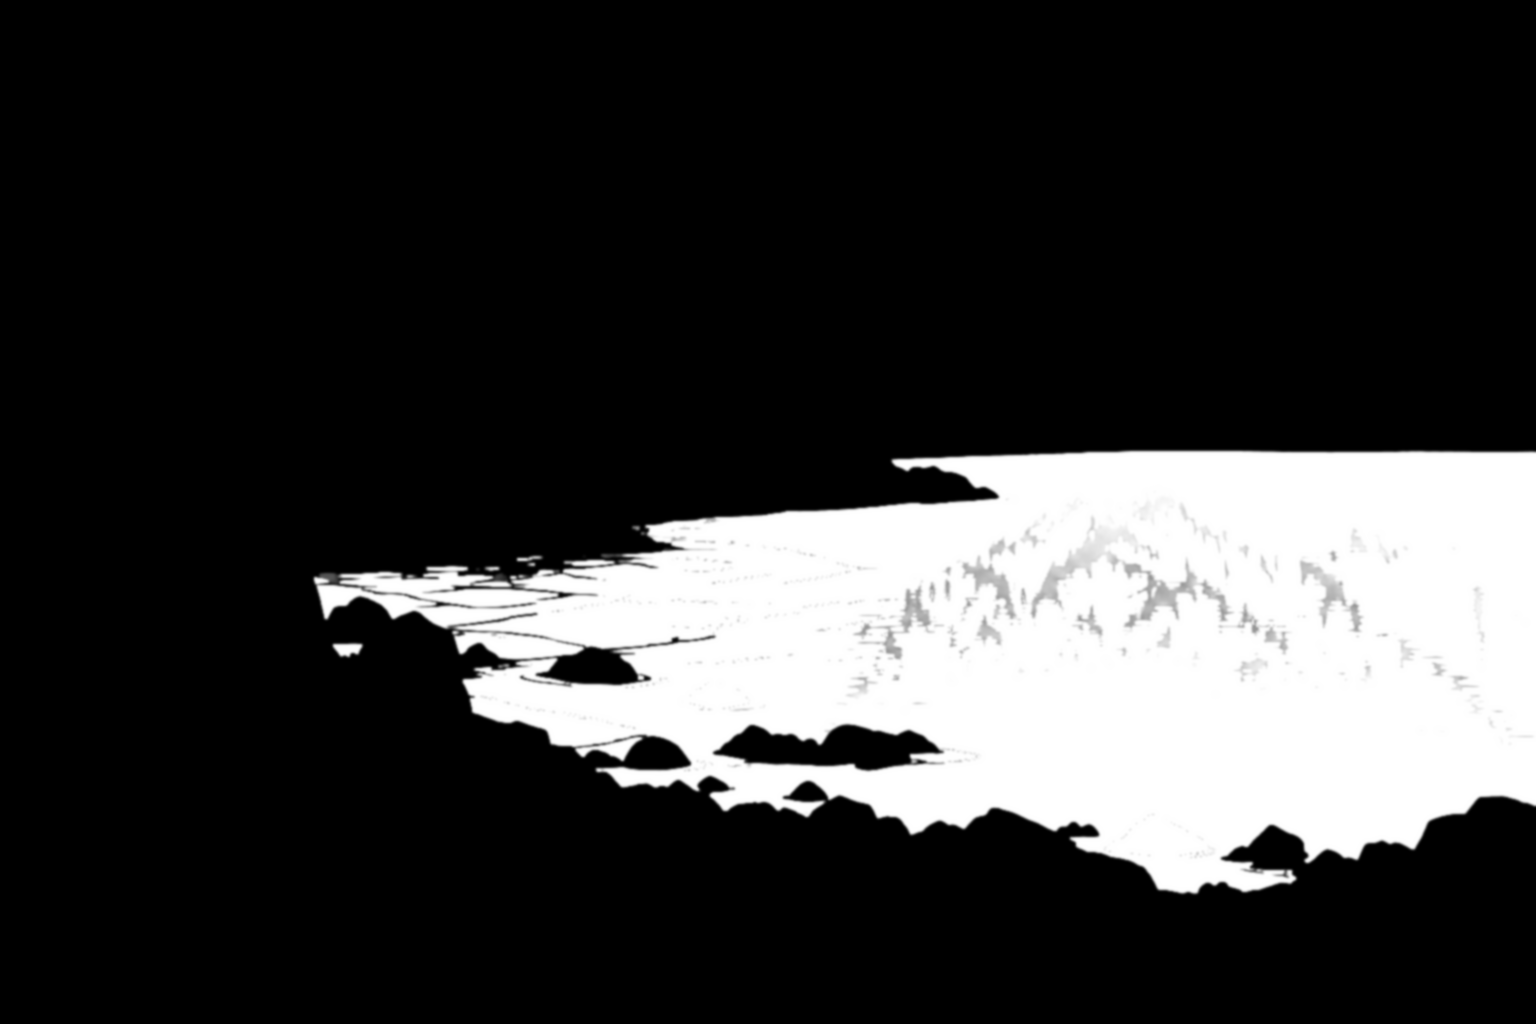
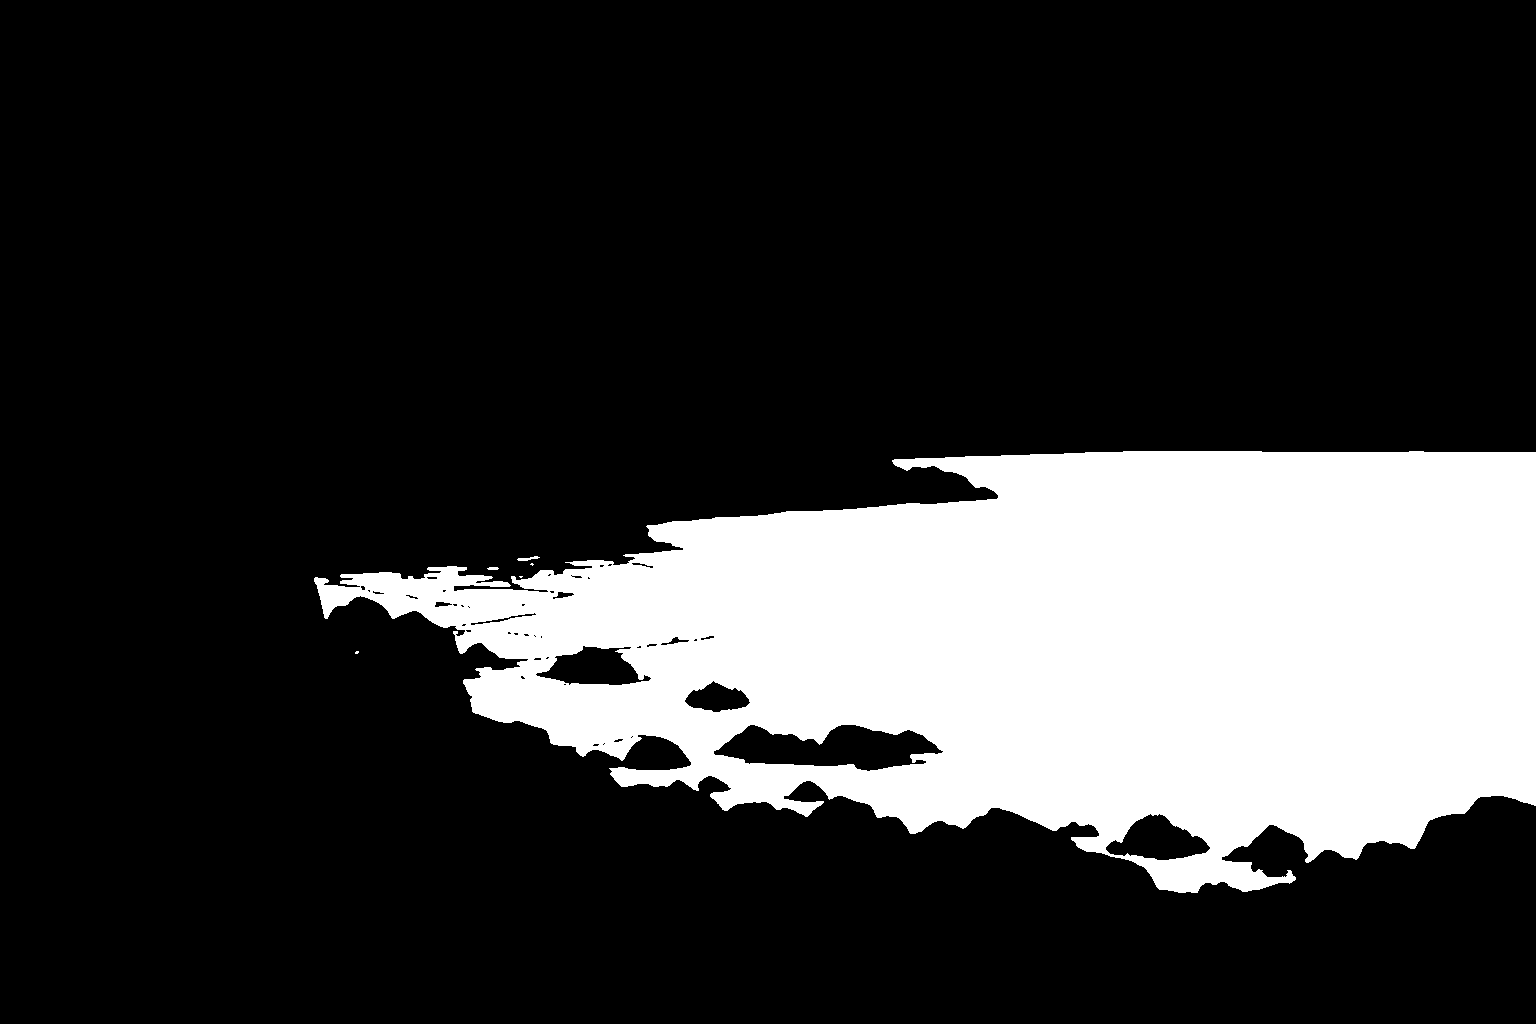
ver -2972 背景線：湖畔瀑布底湖中石頭不再跟著水面晃（水面遮罩挖掉石頭）

diff --git a/index.html b/index.html
@@ -16,9 +16,9 @@
 <link rel="apple-touch-icon" href="resources/background/tivot_emblem.png?v=5da0da58">
 <title>TIVOT</title>
 <!-- 全域鎖直向（真鎖 + 橫向擋板）；classic script，需在版面就緒前掛上 -->
-<script src="orientation.js?v=2971"></script>
+<script src="orientation.js?v=2972"></script>
 <!-- 任務提示（ver -2886）：資料＋判定只有這一份，飛行頁也載它（script/quests.classic.js） -->
-<script src="script/quests.classic.js?v=2971"></script>
+<script src="script/quests.classic.js?v=2972"></script>
 <!-- 離線包（ver -2256）：註冊 sw.js；主畫面 App 裡出現「下載離線包」鈕 -->
 <script src="offline.js"></script>
 <!-- ══ 效能探針・計數層（ver -850，Ray：「沒有辦法寫一個偵測程式進去看是什麼
@@ -78,91 +78,91 @@
 <script type="importmap">
 {
   "imports": {
-    "./audio.js": "./audio.js?v=2971",
-    "./config.js": "./config.js?v=2971",
-    "./i18n.js": "./i18n.js?v=2971",
-    "./main.js": "./main.js?v=2971",
-    "./offline.js": "./offline.js?v=2971",
-    "./orientation.js": "./orientation.js?v=2971",
-    "./state.js": "./state.js?v=2971",
-    "./sw.js": "./sw.js?v=2971",
-    "./telemetry.js": "./telemetry.js?v=2971",
-    "./modules/beatpick.js": "./modules/beatpick.js?v=2971",
-    "./modules/bgfx.js": "./modules/bgfx.js?v=2971",
-    "./modules/blink.js": "./modules/blink.js?v=2971",
-    "./modules/breath.js": "./modules/breath.js?v=2971",
-    "./modules/combat.js": "./modules/combat.js?v=2971",
-    "./modules/defense.js": "./modules/defense.js?v=2971",
-    "./modules/enemy.js": "./modules/enemy.js?v=2971",
-    "./modules/eyefx.js": "./modules/eyefx.js?v=2971",
-    "./modules/gear.js": "./modules/gear.js?v=2971",
-    "./modules/groundShadow.js": "./modules/groundShadow.js?v=2971",
-    "./modules/haptics.js": "./modules/haptics.js?v=2971",
-    "./modules/inn.js": "./modules/inn.js?v=2971",
-    "./modules/inspector.js": "./modules/inspector.js?v=2971",
-    "./modules/loot.js": "./modules/loot.js?v=2971",
-    "./modules/partner.js": "./modules/partner.js?v=2971",
-    "./modules/saint.js": "./modules/saint.js?v=2971",
-    "./modules/sakura.js": "./modules/sakura.js?v=2971",
-    "./modules/save.js": "./modules/save.js?v=2971",
-    "./modules/settings.js": "./modules/settings.js?v=2971",
-    "./modules/story.js": "./modules/story.js?v=2971",
-    "./modules/sway.js": "./modules/sway.js?v=2971",
-    "./modules/tone.js": "./modules/tone.js?v=2971",
-    "./modules/town.js": "./modules/town.js?v=2971",
-    "./modules/transition.js": "./modules/transition.js?v=2971",
-    "./modules/tutorial.js": "./modules/tutorial.js?v=2971",
-    "./modules/weapon.js": "./modules/weapon.js?v=2971",
-    "./script/bg_anim.js": "./script/bg_anim.js?v=2971",
-    "./script/bg_fx.js": "./script/bg_fx.js?v=2971",
-    "./script/bg_index.js": "./script/bg_index.js?v=2971",
-    "./script/blink.js": "./script/blink.js?v=2971",
-    "./script/clock.js": "./script/clock.js?v=2971",
-    "./script/enemies.js": "./script/enemies.js?v=2971",
-    "./script/evaluation.js": "./script/evaluation.js?v=2971",
-    "./script/eyefx.js": "./script/eyefx.js?v=2971",
-    "./script/group_comps.js": "./script/group_comps.js?v=2971",
-    "./script/group_layout.js": "./script/group_layout.js?v=2971",
-    "./script/group_members.js": "./script/group_members.js?v=2971",
-    "./script/inventory.js": "./script/inventory.js?v=2971",
-    "./script/loadout.js": "./script/loadout.js?v=2971",
-    "./script/mainScript.js": "./script/mainScript.js?v=2971",
-    "./script/progress.js": "./script/progress.js?v=2971",
-    "./script/quests.classic.js": "./script/quests.classic.js?v=2971",
-    "./script/shopcards.js": "./script/shopcards.js?v=2971",
-    "./script/shopstock.js": "./script/shopstock.js?v=2971",
-    "./script/speakers.js": "./script/speakers.js?v=2971",
-    "./script/sway.js": "./script/sway.js?v=2971",
-    "./script/town.js": "./script/town.js?v=2971",
-    "./script/weapons.js": "./script/weapons.js?v=2971",
-    "./i18n/en.js": "./i18n/en.js?v=2971",
-    "./i18n/es.js": "./i18n/es.js?v=2971",
-    "./i18n/ja.js": "./i18n/ja.js?v=2971",
-    "./i18n/scriptTr.js": "./i18n/scriptTr.js?v=2971",
-    "./i18n/zh.js": "./i18n/zh.js?v=2971",
-    "./i18n/script/es.classic.js": "./i18n/script/es.classic.js?v=2971",
-    "./i18n/script/es.js": "./i18n/script/es.js?v=2971",
-    "./i18n/ui/en.classic.js": "./i18n/ui/en.classic.js?v=2971",
-    "./i18n/ui/en.js": "./i18n/ui/en.js?v=2971",
-    "./i18n/ui/es.classic.js": "./i18n/ui/es.classic.js?v=2971",
-    "./i18n/ui/es.js": "./i18n/ui/es.js?v=2971",
-    "./i18n/ui/ja.classic.js": "./i18n/ui/ja.classic.js?v=2971",
-    "./i18n/ui/ja.js": "./i18n/ui/ja.js?v=2971",
-    "./i18n/ui/langs.classic.js": "./i18n/ui/langs.classic.js?v=2971",
-    "./i18n/ui/langs.js": "./i18n/ui/langs.js?v=2971",
-    "./i18n/ui/pack.en.js": "./i18n/ui/pack.en.js?v=2971",
-    "./i18n/ui/pack.es.js": "./i18n/ui/pack.es.js?v=2971",
-    "./i18n/ui/pack.ja.js": "./i18n/ui/pack.ja.js?v=2971",
-    "./i18n/ui/packs.js": "./i18n/ui/packs.js?v=2971"
+    "./audio.js": "./audio.js?v=2972",
+    "./config.js": "./config.js?v=2972",
+    "./i18n.js": "./i18n.js?v=2972",
+    "./main.js": "./main.js?v=2972",
+    "./offline.js": "./offline.js?v=2972",
+    "./orientation.js": "./orientation.js?v=2972",
+    "./state.js": "./state.js?v=2972",
+    "./sw.js": "./sw.js?v=2972",
+    "./telemetry.js": "./telemetry.js?v=2972",
+    "./modules/beatpick.js": "./modules/beatpick.js?v=2972",
+    "./modules/bgfx.js": "./modules/bgfx.js?v=2972",
+    "./modules/blink.js": "./modules/blink.js?v=2972",
+    "./modules/breath.js": "./modules/breath.js?v=2972",
+    "./modules/combat.js": "./modules/combat.js?v=2972",
+    "./modules/defense.js": "./modules/defense.js?v=2972",
+    "./modules/enemy.js": "./modules/enemy.js?v=2972",
+    "./modules/eyefx.js": "./modules/eyefx.js?v=2972",
+    "./modules/gear.js": "./modules/gear.js?v=2972",
+    "./modules/groundShadow.js": "./modules/groundShadow.js?v=2972",
+    "./modules/haptics.js": "./modules/haptics.js?v=2972",
+    "./modules/inn.js": "./modules/inn.js?v=2972",
+    "./modules/inspector.js": "./modules/inspector.js?v=2972",
+    "./modules/loot.js": "./modules/loot.js?v=2972",
+    "./modules/partner.js": "./modules/partner.js?v=2972",
+    "./modules/saint.js": "./modules/saint.js?v=2972",
+    "./modules/sakura.js": "./modules/sakura.js?v=2972",
+    "./modules/save.js": "./modules/save.js?v=2972",
+    "./modules/settings.js": "./modules/settings.js?v=2972",
+    "./modules/story.js": "./modules/story.js?v=2972",
+    "./modules/sway.js": "./modules/sway.js?v=2972",
+    "./modules/tone.js": "./modules/tone.js?v=2972",
+    "./modules/town.js": "./modules/town.js?v=2972",
+    "./modules/transition.js": "./modules/transition.js?v=2972",
+    "./modules/tutorial.js": "./modules/tutorial.js?v=2972",
+    "./modules/weapon.js": "./modules/weapon.js?v=2972",
+    "./script/bg_anim.js": "./script/bg_anim.js?v=2972",
+    "./script/bg_fx.js": "./script/bg_fx.js?v=2972",
+    "./script/bg_index.js": "./script/bg_index.js?v=2972",
+    "./script/blink.js": "./script/blink.js?v=2972",
+    "./script/clock.js": "./script/clock.js?v=2972",
+    "./script/enemies.js": "./script/enemies.js?v=2972",
+    "./script/evaluation.js": "./script/evaluation.js?v=2972",
+    "./script/eyefx.js": "./script/eyefx.js?v=2972",
+    "./script/group_comps.js": "./script/group_comps.js?v=2972",
+    "./script/group_layout.js": "./script/group_layout.js?v=2972",
+    "./script/group_members.js": "./script/group_members.js?v=2972",
+    "./script/inventory.js": "./script/inventory.js?v=2972",
+    "./script/loadout.js": "./script/loadout.js?v=2972",
+    "./script/mainScript.js": "./script/mainScript.js?v=2972",
+    "./script/progress.js": "./script/progress.js?v=2972",
+    "./script/quests.classic.js": "./script/quests.classic.js?v=2972",
+    "./script/shopcards.js": "./script/shopcards.js?v=2972",
+    "./script/shopstock.js": "./script/shopstock.js?v=2972",
+    "./script/speakers.js": "./script/speakers.js?v=2972",
+    "./script/sway.js": "./script/sway.js?v=2972",
+    "./script/town.js": "./script/town.js?v=2972",
+    "./script/weapons.js": "./script/weapons.js?v=2972",
+    "./i18n/en.js": "./i18n/en.js?v=2972",
+    "./i18n/es.js": "./i18n/es.js?v=2972",
+    "./i18n/ja.js": "./i18n/ja.js?v=2972",
+    "./i18n/scriptTr.js": "./i18n/scriptTr.js?v=2972",
+    "./i18n/zh.js": "./i18n/zh.js?v=2972",
+    "./i18n/script/es.classic.js": "./i18n/script/es.classic.js?v=2972",
+    "./i18n/script/es.js": "./i18n/script/es.js?v=2972",
+    "./i18n/ui/en.classic.js": "./i18n/ui/en.classic.js?v=2972",
+    "./i18n/ui/en.js": "./i18n/ui/en.js?v=2972",
+    "./i18n/ui/es.classic.js": "./i18n/ui/es.classic.js?v=2972",
+    "./i18n/ui/es.js": "./i18n/ui/es.js?v=2972",
+    "./i18n/ui/ja.classic.js": "./i18n/ui/ja.classic.js?v=2972",
+    "./i18n/ui/ja.js": "./i18n/ui/ja.js?v=2972",
+    "./i18n/ui/langs.classic.js": "./i18n/ui/langs.classic.js?v=2972",
+    "./i18n/ui/langs.js": "./i18n/ui/langs.js?v=2972",
+    "./i18n/ui/pack.en.js": "./i18n/ui/pack.en.js?v=2972",
+    "./i18n/ui/pack.es.js": "./i18n/ui/pack.es.js?v=2972",
+    "./i18n/ui/pack.ja.js": "./i18n/ui/pack.ja.js?v=2972",
+    "./i18n/ui/packs.js": "./i18n/ui/packs.js?v=2972"
   }
 }
 </script>
 <!-- BUST:END -->
-<link rel="stylesheet" href="style.css?v=2971">
+<link rel="stylesheet" href="style.css?v=2972">
   <!-- 拾得道具／道具欄／商店／懸賞榜（ver -380 抽出，飛行頁共用同一份）。
        ⚠ `data-lootsheet` 是給 `modules/loot.js` 認的：它看到已經掛過就不再掛一次。
          飛行頁沒有這一行，由那支模組自己掛上去。 -->
-  <link rel="stylesheet" href="css/lootsheet.css?v=2971" data-lootsheet="1">
+  <link rel="stylesheet" href="css/lootsheet.css?v=2972" data-lootsheet="1">
 <!-- 主畫面 App（standalone）偵測：首繪前在 <html> 蓋 .standalone，
      供 CSS 修 iOS 26 版面視窗少算頂部安全區高度（底部露黑帶）的問題 -->
 <script>
@@ -814,6 +814,6 @@
      ⚠ src 是**按下去才給**的（lazy）：不然每次開機都要多載一整個飛行頁。 -->
 <iframe id="flightFrame" title="飛行"></iframe>
 
-<script type="module" src="main.js?v=2971"></script>
+<script type="module" src="main.js?v=2972"></script>
 </body>
 </html>

diff --git a/flight/index.html b/flight/index.html
@@ -3,9 +3,9 @@
 <head>
 <meta charset="utf-8">
 <meta name="viewport" content="width=device-width,initial-scale=1,maximum-scale=1,user-scalable=no,viewport-fit=cover">
-<script src="../orientation.js?v=2971"></script>
-<script src="../script/quests.classic.js?v=2971"></script>   <!-- 任務提示（ver -2886）：與主程式同一份 -->
-<script src="../i18n/ui/langs.classic.js?v=2971"></script>
+<script src="../orientation.js?v=2972"></script>
+<script src="../script/quests.classic.js?v=2972"></script>   <!-- 任務提示（ver -2886）：與主程式同一份 -->
+<script src="../i18n/ui/langs.classic.js?v=2972"></script>
 <script>
 /* 介面字譯文（ver -1909）：這一頁是非模組，程式一開跑就讀字串 —— 所以譯文表要**同步**載
    （document.write，只在選了有譯文的語言時）。
@@ -20,8 +20,8 @@
     if(ls.some(function(x){ return String(x).toLowerCase().indexOf('ja')===0; }) || tz==='Asia/Tokyo') l='ja';
     else if(String(ls[0]||'').toLowerCase().indexOf('es')===0) l='es';
   }catch(e){} }
-  if(G.script.indexOf(l)>=0) document.write('<script src="../i18n/script/'+l+'.classic.js?v=2971"><\/script>');
-  if(G.ui.indexOf(l)>=0) document.write('<script src="../i18n/ui/'+l+'.classic.js?v=2971"><\/script>');
+  if(G.script.indexOf(l)>=0) document.write('<script src="../i18n/script/'+l+'.classic.js?v=2972"><\/script>');
+  if(G.ui.indexOf(l)>=0) document.write('<script src="../i18n/ui/'+l+'.classic.js?v=2972"><\/script>');
 })();
 function i18nT(s){ var t=window.__TIVOT_TR; return (t && typeof s==='string' && t[s]!=null) ? t[s] : s; }
 document.addEventListener('DOMContentLoaded', function(){
@@ -254,7 +254,7 @@ document.addEventListener('DOMContentLoaded', function(){
   /* ver -2217：門圖含楣（kerberos_gate，＝主遊戲同一張）—— 底圖往上延伸到楣的上緣（--fk-gate-top，負值，layoutFKerb 寫）。
      畫在 ::before：門的子元素（紋章／箭／鉚釘）排在它之後，自然疊在上面。 */
   #fkerbDoor::before{content:'';position:absolute;left:0;right:0;top:var(--fk-gate-top,0px);bottom:0;
-    background-image:url('../resources/vfx/kerberos_gate.webp?v=2971');
+    background-image:url('../resources/vfx/kerberos_gate.webp?v=2972');
     background-repeat:no-repeat;background-size:100% 100%;pointer-events:none;}
   #fkerb.rise #fkerbDoor{transform:translateY(calc(var(--fkerb-rise,0px) * -1));}
   /* 楣與其餘零件：全部是門的子元素＝同一剛體，門上推它們跟著上去
@@ -277,8 +277,8 @@ document.addEventListener('DOMContentLoaded', function(){
       radial-gradient(circle at 50% 22%, rgba(0,0,0,.72) 40%, rgba(0,0,0,0) 78%);
     box-shadow:inset 0 3px 7px rgba(0,0,0,.85);}
   #fkerbGear .fkg-shine{position:absolute;inset:0;mix-blend-mode:screen;opacity:.8;
-    -webkit-mask-image:url("../resources/vfx/kerberos_gear.webp?v=2971");
-    mask-image:url("../resources/vfx/kerberos_gear.webp?v=2971");
+    -webkit-mask-image:url("../resources/vfx/kerberos_gear.webp?v=2972");
+    mask-image:url("../resources/vfx/kerberos_gear.webp?v=2972");
     -webkit-mask-size:100% 100%;mask-size:100% 100%;
     -webkit-mask-repeat:no-repeat;mask-repeat:no-repeat;
     background:linear-gradient(114deg,
@@ -298,8 +298,8 @@ document.addEventListener('DOMContentLoaded', function(){
     filter:drop-shadow(0 3px 7px rgba(0,0,0,.9)) drop-shadow(0 0 2px rgba(0,0,0,.8));}
   #fkerbPend .fkp-shine{position:absolute;inset:0;pointer-events:none;
     mix-blend-mode:screen;opacity:.85;
-    -webkit-mask-image:url("../resources/vfx/kerberos_pendant.webp?v=2971");
-    mask-image:url("../resources/vfx/kerberos_pendant.webp?v=2971");
+    -webkit-mask-image:url("../resources/vfx/kerberos_pendant.webp?v=2972");
+    mask-image:url("../resources/vfx/kerberos_pendant.webp?v=2972");
     -webkit-mask-size:100% 100%;mask-size:100% 100%;
     -webkit-mask-repeat:no-repeat;mask-repeat:no-repeat;
     background:linear-gradient(114deg,
@@ -675,23 +675,23 @@ img:not([src]), img[src=""], img.img-broken{visibility:hidden !important;}
        ⚠ 要有，否則交棒那一格齒輪會憑空冒出來（同吊墜的理由）。
        ⚠ 排在 `.fk-plate` 之前 ＝ 團徽之下、槍棺之上。 -->
   <div id="fkerbGear"><i class="fkg-well"></i>
-    <img src="../resources/vfx/kerberos_gear.webp?v=2971" alt=""><i class="fkg-shine"></i></div>
+    <img src="../resources/vfx/kerberos_gear.webp?v=2972" alt=""><i class="fkg-shine"></i></div>
   <div id="fkerbGearSm"><i class="fkg-well"></i>
-    <img src="../resources/vfx/kerberos_gear.webp?v=2971" alt=""></div>
-  <img class="fk-plate" src="../resources/vfx/kerberos_plate.webp?v=2971" alt="">
-  <img class="fk-arrow n" src="../resources/vfx/kerberos_arrow.webp?v=2971" alt="">
-  <img class="fk-arrow e" src="../resources/vfx/kerberos_arrow.webp?v=2971" alt="">
-  <img class="fk-arrow s" src="../resources/vfx/kerberos_arrow.webp?v=2971" alt="">
-  <img class="fk-arrow w" src="../resources/vfx/kerberos_arrow.webp?v=2971" alt="">
-  <img class="fk-rivet r10" src="../resources/vfx/kerberos_rivet.webp?v=2971" alt="">
-  <img class="fk-rivet r2"  src="../resources/vfx/kerberos_rivet.webp?v=2971" alt="">
-  <img class="fk-rivet r4"  src="../resources/vfx/kerberos_rivet.webp?v=2971" alt="">
-  <img class="fk-rivet r8"  src="../resources/vfx/kerberos_rivet.webp?v=2971" alt="">
+    <img src="../resources/vfx/kerberos_gear.webp?v=2972" alt=""></div>
+  <img class="fk-plate" src="../resources/vfx/kerberos_plate.webp?v=2972" alt="">
+  <img class="fk-arrow n" src="../resources/vfx/kerberos_arrow.webp?v=2972" alt="">
+  <img class="fk-arrow e" src="../resources/vfx/kerberos_arrow.webp?v=2972" alt="">
+  <img class="fk-arrow s" src="../resources/vfx/kerberos_arrow.webp?v=2972" alt="">
+  <img class="fk-arrow w" src="../resources/vfx/kerberos_arrow.webp?v=2972" alt="">
+  <img class="fk-rivet r10" src="../resources/vfx/kerberos_rivet.webp?v=2972" alt="">
+  <img class="fk-rivet r2"  src="../resources/vfx/kerberos_rivet.webp?v=2972" alt="">
+  <img class="fk-rivet r4"  src="../resources/vfx/kerberos_rivet.webp?v=2972" alt="">
+  <img class="fk-rivet r8"  src="../resources/vfx/kerberos_rivet.webp?v=2972" alt="">
   <!-- 吊墜（ver -412）：與主遊戲同一套（見 index.html 的 #kerbPend 與 style.css）。
        ⚠ 這一頁**必須也有** —— 遭遇時門是在這裡推上來的，交棒之後主遊戲那一半才接手；
          只有一邊掛吊墜的話，交棒那一格會憑空多出一個東西。 -->
   <div id="fkerbPend"><div class="fkp-swing"><div class="fkp-idle">
-    <img src="../resources/vfx/kerberos_pendant.webp?v=2971" alt=""><i class="fkp-shine"></i>
+    <img src="../resources/vfx/kerberos_pendant.webp?v=2972" alt=""><i class="fkp-shine"></i>
   </div></div></div>
 </div></div>
 <div id="boot">
@@ -713,15 +713,15 @@ img:not([src]), img[src=""], img.img-broken{visibility:hidden !important;}
   <div id="bMsg"><small id="bootMsg"></small></div>
 </div>
 
-<script src="settlement.js?v=2971"></script>
+<script src="settlement.js?v=2972"></script>
 <!-- 閒聊對話的**內容**獨立成一支：方便加台詞、加觸發條件而不必碰引擎。
      ⚠ 一般 <script>（非 module）→ TALKS / talkPeriod / talkPick 是全域，
        而且會在下面這段 inline 之前執行完，所以 inline 內可以直接用。 -->
 <script>if(/[?&]world=undercity/.test(location.search)) document.write('<script src="undercity/world.js?v=29615343"><\/script>');</script>
 <script>if(/[?&]world=sanctum/.test(location.search)) document.write('<script src="sanctum/world.js?v=0b4855bb"><\/script>');</script>   <!-- 卡耶爾山谷 → 聖王廳地宮的地底大空洞（ver -2565，build_sanctum.py 產的） -->
 <script>if(!/[?&]world=/.test(location.search)) document.write('<script src="undercity/crowns.js?v=6a3ae090"><\/script>');</script>   <!-- 地表上地底樹的樹冠（ver -2412，build_uc_crowns.py 產的） -->
-<script src="talks.js?v=2971"></script>
-<script src="drg3d.js?v=2971"></script>   <!-- 空中怪 3D（11-23 Ray：「全部空中怪」接入遊戲）：預設 3D，?drg3d=0 關掉；版號由 bust.py 蓋 -->
+<script src="talks.js?v=2972"></script>
+<script src="drg3d.js?v=2972"></script>   <!-- 空中怪 3D（11-23 Ray：「全部空中怪」接入遊戲）：預設 3D，?drg3d=0 關掉；版號由 bust.py 蓋 -->
 
 <script>
 /* 破圖框一律不畫（ver -1881，同主頁 main.js 那一支，這一頁是另一個 document）。 */
@@ -836,7 +836,7 @@ const COLOR_URL  = 'silvermoon_terrain.png?v=b18827be'  + TERRAIN_V;
    以前是手寫的，於是從 -911 起就沒有人記得動它 —— 而 HUD 上的版本號正是 Ray
    在手機上確認「我現在跑的是哪一版」的唯一依據（鐵律 7：一個量一個計算點；
    ver -626：版本號不動就等於沒有版本號）。**不要手改。** */
-const FLIGHT_VER = 'ver -2971';
+const FLIGHT_VER = 'ver -2972';
 const MAP_SCALE  = /[?&]world=(cave|undercity|sanctum)/.test(location.search) ? 10 : 20;   // 地底的圖加密成 1536²（ver -2369，build_cave.py 的 SUPER）：一格 10 世界單位，世界大小不變
 const INV_SCALE  = 1/MAP_SCALE;
 const PEAK_SCALE = 520;   // 高度圖 255 對應的世界高度（越大山越陡）

diff --git a/config.js b/config.js
@@ -115,7 +115,7 @@ export const HITFX = {
  *     以為是快取卡住 —— 版本號不動就等於沒有版本號）。
  *  ⚠ 它同時是**暖開機戳記的鑰匙**（main.js 的 `WARM_BOOT`）：版本一變，
  *    上一版的戳記就失效 → 下一次開機重跑完整讀取。那正是改版後該有的行為。 */
-export const VERSION = 'ver 2026.11.24-2971';
+export const VERSION = 'ver 2026.11.24-2972';
 
 /* ══ 空中怪 16 隻的戰鬥卡（ver -2268）══ 每一隻一張 `flight_<鍵>`（飛行頁 `battleIdFor` 的命名），
    內容同羽蛇那一場：船戰、艦載武器音、連射間隔 180ms。⚠ 這份鍵清單在三處：這裡／
@@ -3763,8 +3763,12 @@ export const GAME_CONFIG = {
       '044_soranahug': { video:'resources/illustration/video/044_soranahug_v3.mp4' },   // ver -2258：v2 → v3（Ray：「Soranahug 要接新檔」）
       /* ver -2258（Ray：「蕾娜 intro 動畫沒接上」「蕾娜抱安雅動畫沒接上」，動畫 10-18 交件）。 */
       /* ver -2967（Ray：「掃射換成這一個，機槍音從135格開始播，原本的掃射效果拿掉」，TO_CODE 第三十一支）：
-         135 是 animechk 的原片格號 ＝ 這支片的第 77 格（24fps）＝ 3.208 秒（第一道槍口火光）。第一格≒靜態圖 ⇒ 腳本那一拍用 cgSoft 無縫接。 */
-      '002_saintassult': { video:'resources/illustration/video/002_saintassult_v1.mp4', cue:[{ at:77/24, se:'se_lunaMG' }] },
+         135 是 animechk 的原片格號 ＝ 這支片的第 77 格（24fps）＝ 3.208 秒（第一道槍口火光）。
+         ver -2972（Ray：「對不起跟讓開都要以那個為底…動畫要配原本聖徒襲來的音效直到掃射完閉」）：
+         從「對不起」那一拍開播、台詞疊在上面 ⇒ `under`（畫在立繪之下）＋`hold`（跨拍撐到 cg:null）＋`withText`（與台詞一起開始）；
+         咆哮（原本那一拍的音）在 0 秒、機槍在 3.208 秒。逐句的時間表在 mainScript 的 `vidAt`。 */
+      '002_saintassult': { video:'resources/illustration/video/002_saintassult_v1.mp4', under:true, hold:true, withText:true,
+                           cue:[{ at:0, se:'se_saintroar' }, { at:77/24, se:'se_lunaMG' }] },
       '004_renna_intro': { video:'resources/illustration/video/004_renna_intro_v2.mp4', withText:true },   // ver -2962（Ray）：自報名號那句跟動畫一起播；ver -2963（Ray）：v1 → v2（silent7_cut，TO_CODE 第三十支）
       '008_rennaholdanya': { video:'resources/illustration/video/008_rennaholdanya_v1.mp4' },
       /* ver -2184（動畫 10-14 交件）。35／044 首尾構圖可接 ⇒ 循環（044 那一拍之後還有台詞與轉泛黃，插圖要撐到淡出）。 */
@@ -7056,6 +7060,7 @@ export const ASSET_VER = {
   'lake_eastshore_night': 'df50844b',
   'lake_fallbase_dawn': 'c9c5fb74',
   'lake_fallbase_day': '917a24d8',
+  'lake_fallbase_day_watermask': 'fe3bb3c0',
   'lake_fallbase_dusk': '5065d57b',
   'lake_fallbase_night': 'ed98c642',
   'lake_grove_dawn': '95456ba0',
